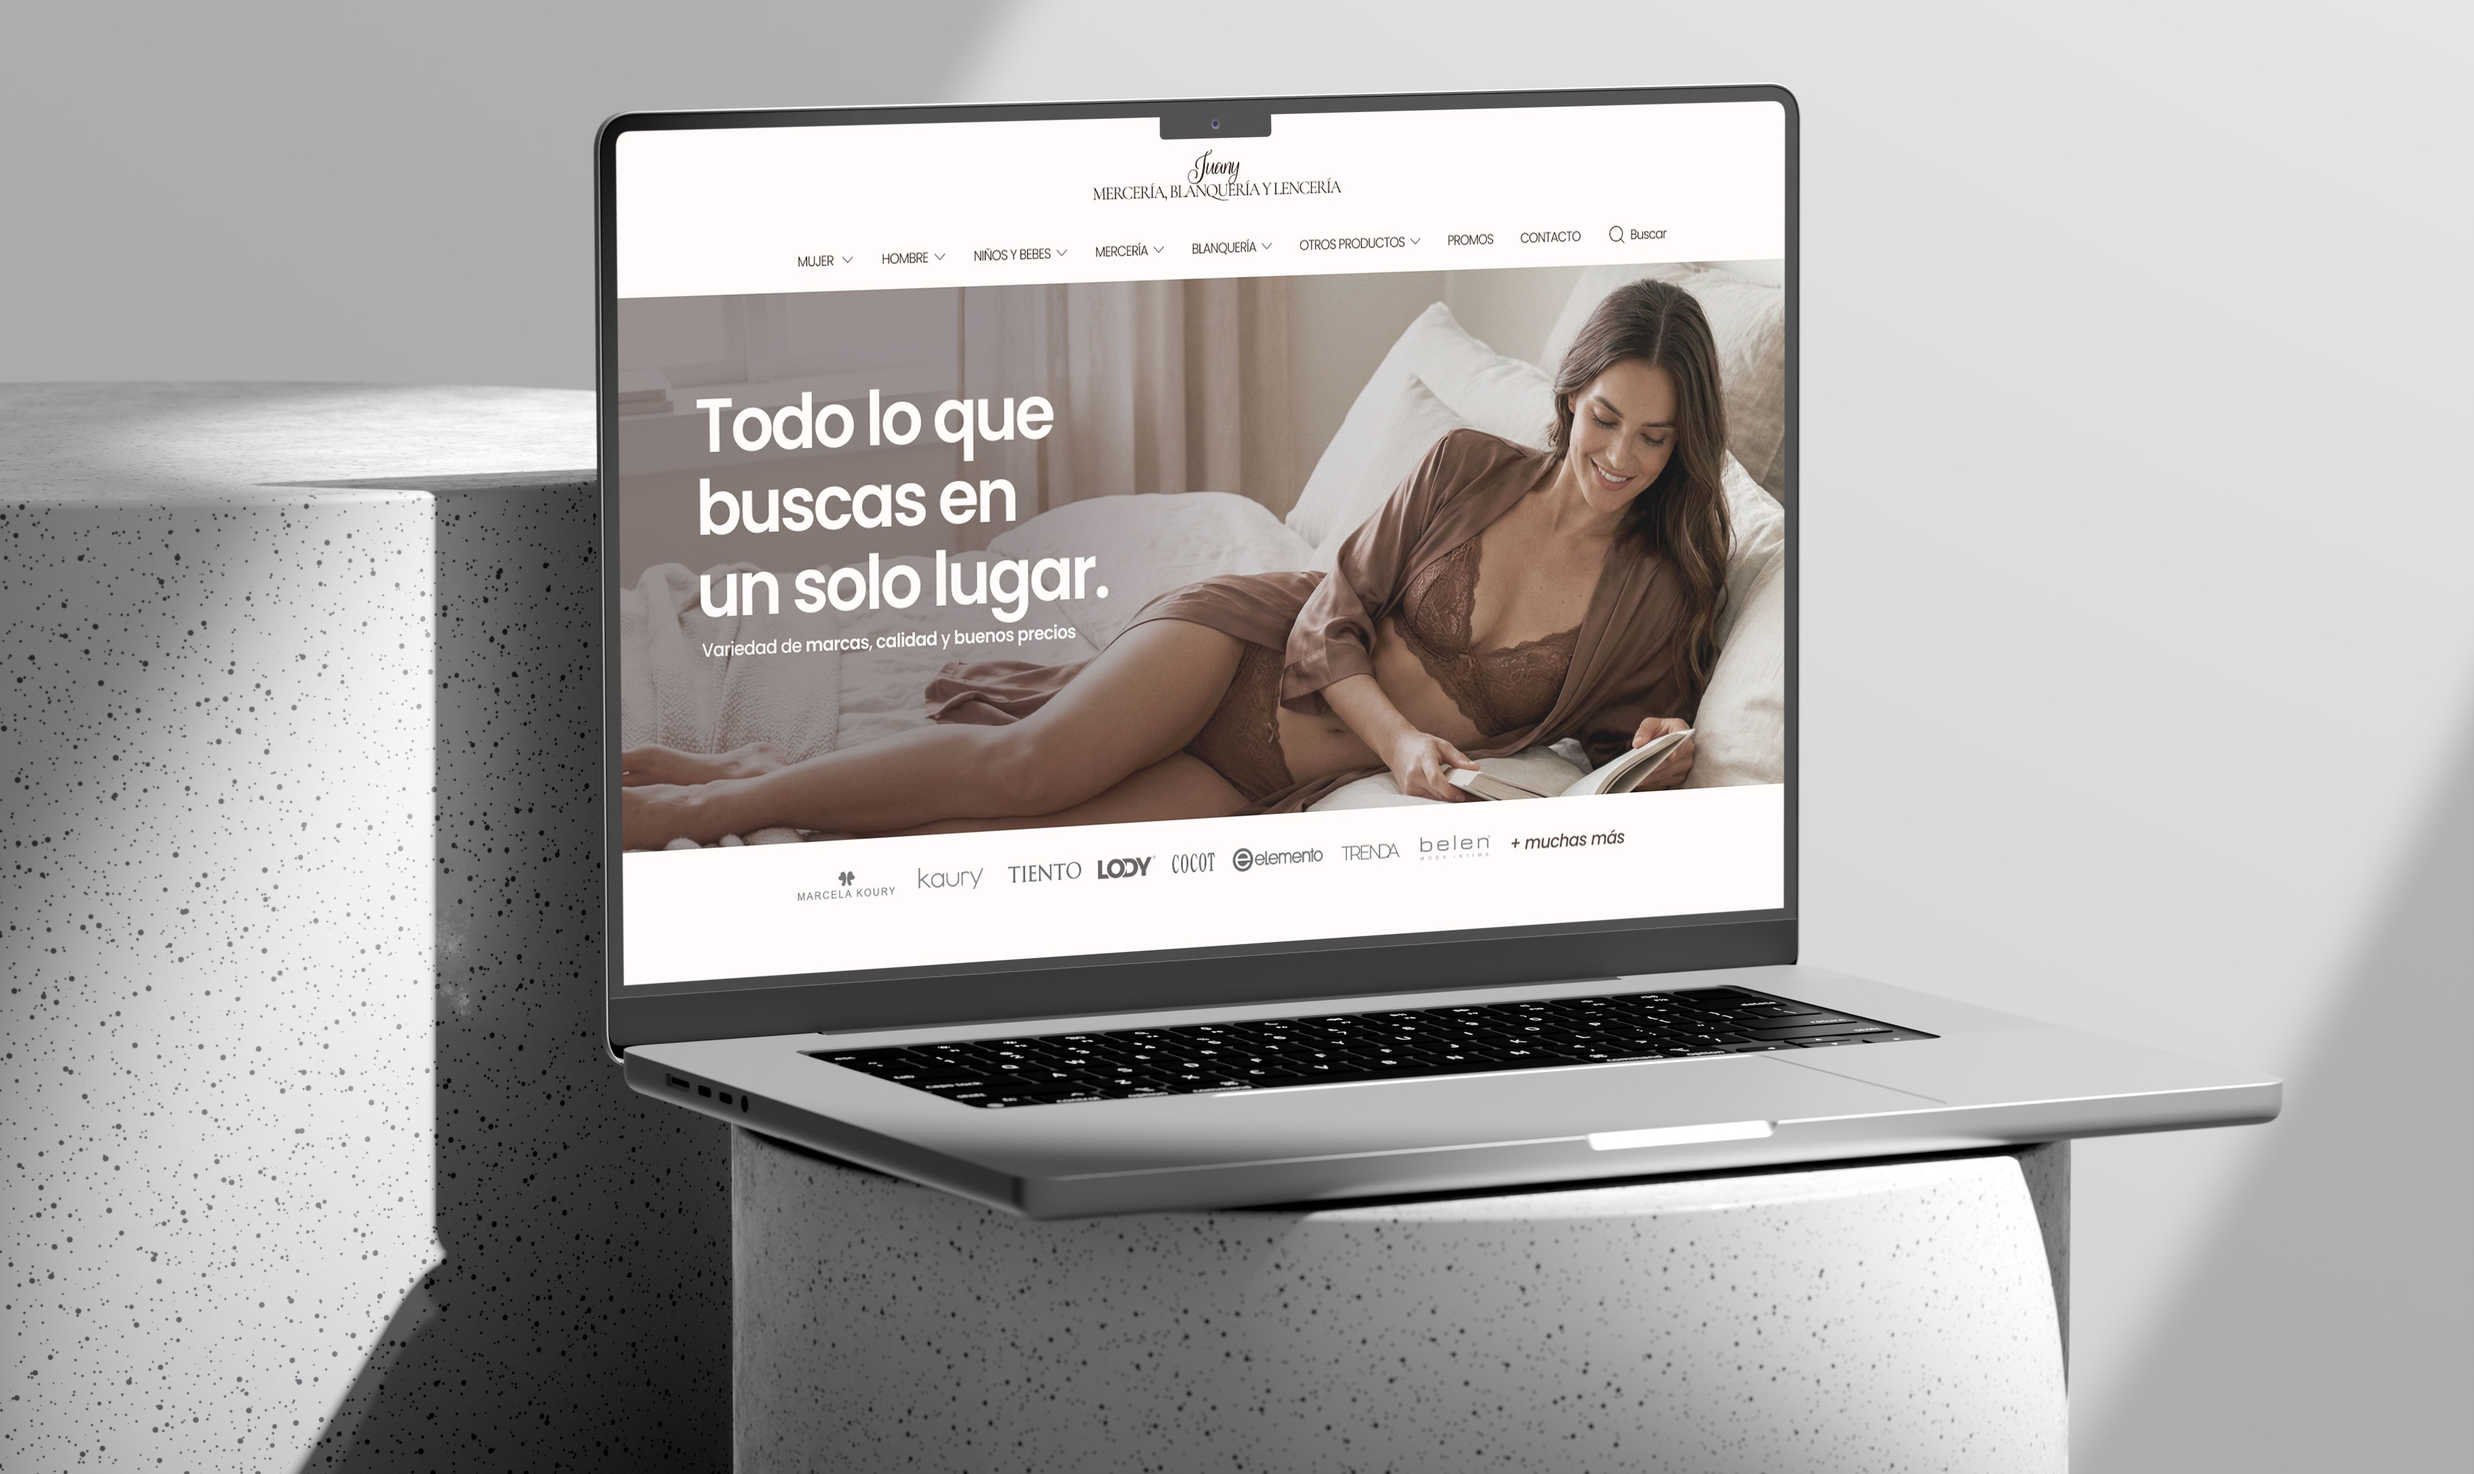
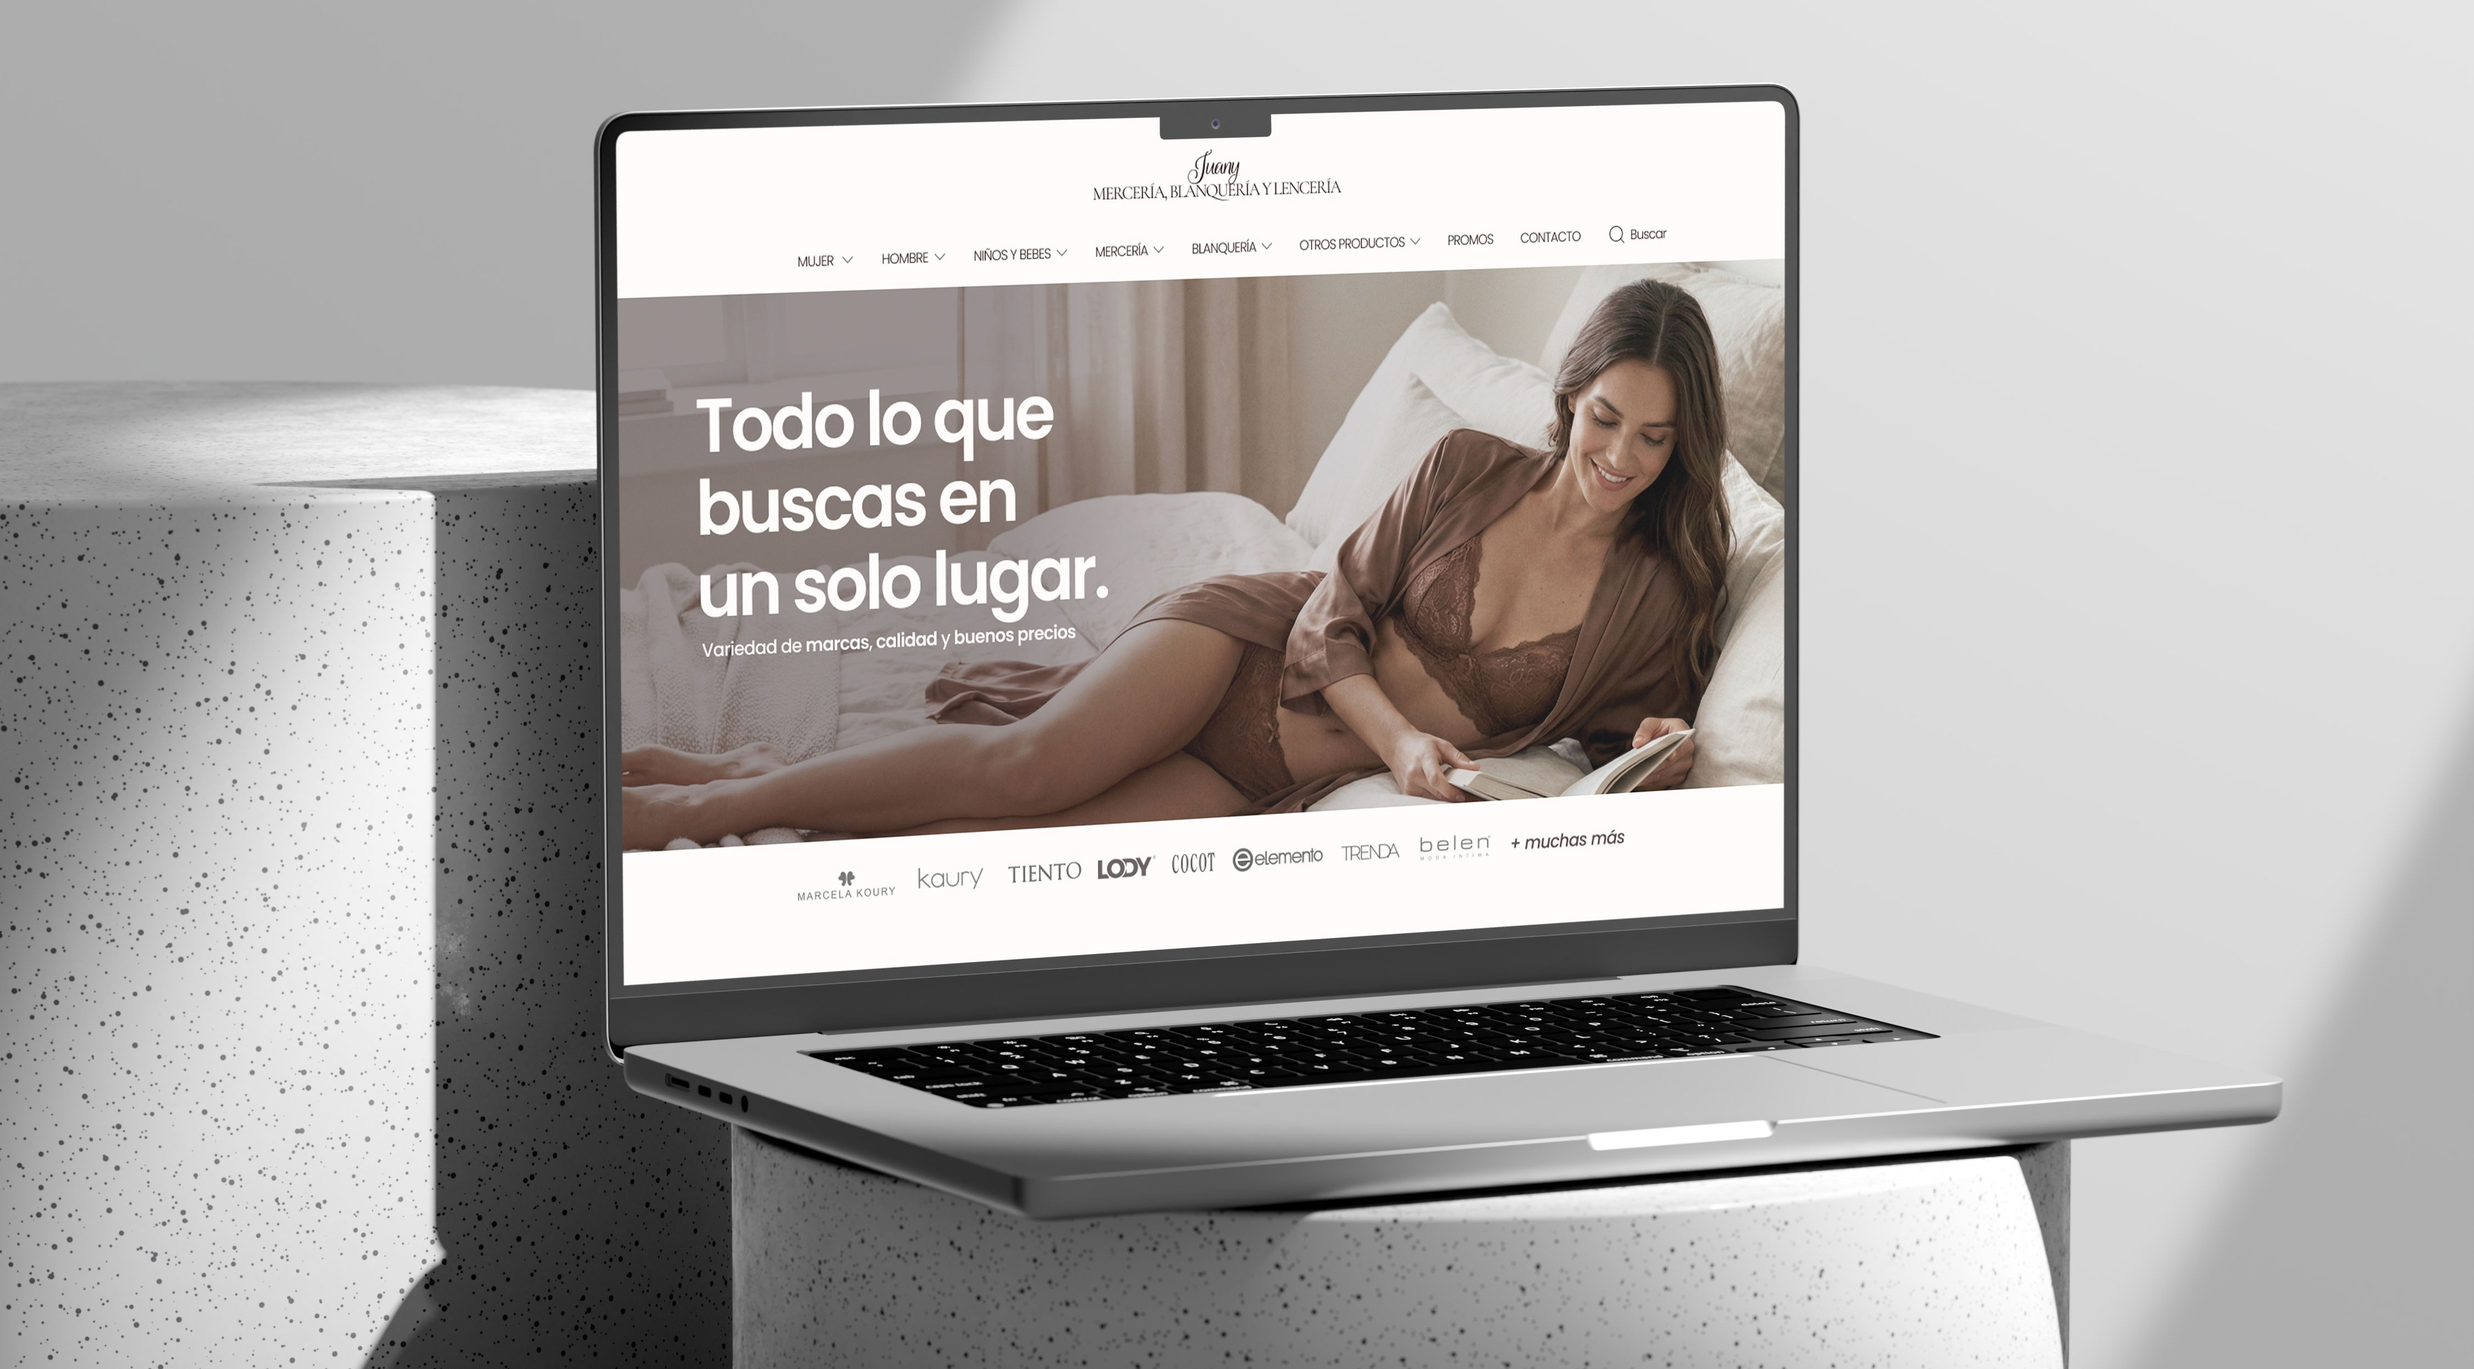
mejoras 17/3

diff --git a/components/MiHeader.jsx b/components/MiHeader.jsx
@@ -7,16 +7,16 @@ const container = {
   hidden: {},
   show: {
     transition: {
-      staggerChildren: 0.18
-    }
-  }
+      staggerChildren: 0.18,
+    },
+  },
 };
 
 const item = {
   hidden: {
     opacity: 0,
     y: 40,
-    filter: "blur(8px)"
+    filter: "blur(8px)",
   },
   show: {
     opacity: 1,
@@ -24,9 +24,9 @@ const item = {
     filter: "blur(0px)",
     transition: {
       duration: 0.7,
-      ease: [0.25, 0.1, 0.25, 1]
-    }
-  }
+      ease: [0.25, 0.1, 0.25, 1],
+    },
+  },
 };
 
 export default function MiHeader() {
@@ -56,22 +56,18 @@ export default function MiHeader() {
   }, []);
 
   return (
-    <div className="relative w-full h-[40vh] md:h-[60vh] [--base-vh:60vh] md:[--base-vh:60vh]">
-      
+    <div className="relative w-full h-[40vh] md:h-[75vh] [--base-vh:70vh] md:[--base-vh:70vh]">
       <header
         className="fixed top-0 left-0 w-full overflow-hidden flex items-center justify-center -z-10"
         style={{
-          height: `calc(var(--base-vh) * ${headerHeight / 100})`
+          height: `calc(var(--base-vh) * ${headerHeight / 100})`,
         }}
       >
-        
-          
-       {/* <div className="absolute inset-0 z-0">
+        {/* <div className="absolute inset-0 z-0">
           <ShaderGradientComponent />
         </div>*/}
 
-        <div className="absolute inset-0 flex flex-col justify-end items-start z-10 pointer-events-none p-6 md:p-20 md:pt-50 text-left">
-          
+        <div className="absolute inset-0 flex flex-col justify-end items-start z-10 pointer-events-none md:px-20 md:py-10 text-left ">
           <motion.div
             variants={container}
             initial="hidden"
@@ -79,10 +75,9 @@ export default function MiHeader() {
             className="flex flex-col items-start"
             style={{
               transform: `translateY(${textY}px) scale(${textScale})`,
-              transformOrigin: "center"
+              transformOrigin: "center",
             }}
           >
-
             {/* línea 1 */}
             <motion.div
               variants={item}
@@ -92,7 +87,7 @@ export default function MiHeader() {
                 ¡Hola! Soy Luciana —
               </span>
 
-              <span className="inline-flex items-center text-xl md:text-6xl gap-2">
+              <span className="inline-flex items-center text-xl md:text-[80px] gap-2">
                 <i>diseñadora multimedial</i>
 
                 <motion.div
@@ -107,16 +102,17 @@ export default function MiHeader() {
             {/* línea 2 */}
             <motion.span
               variants={item}
-              className="font-sans text-white/90 font-semibold text-xl md:text-6xl leading-tight"
+              className="font-sans text-white/90 font-semibold text-xl md:text-[80px] leading-tight"
             >
-              enfocada en crear <i>productos digitales</i> <br /> con 
-              grandes propositos
+              enfocada en crear <i>productos <br /> digitales</i>  con grandes
+              propositos
             </motion.span>
-
           </motion.div>
-
+           
         </div>
+       
       </header>
+      <div className="absolute bottom-0 w-[90%] left-1/2 -translate-x-1/2 border-t border-gray-800 z-20"></div>
     </div>
   );
 }

diff --git a/App.jsx b/App.jsx
@@ -15,10 +15,10 @@ import ParrallaxSection from "./components/ParrallaxSection";
 import MiHeader from "./components/MiHeader";
 import SectionWrapper from "./components/SectionWrapper";
 
-import fotoProyecto1 from "./assets/Mask group.png";
-import fotoProyecto2 from "./assets/Mask group2.png";
-import fotoProyecto3 from "./assets/Mask group3.png";
-import fotoProyecto4 from "./assets/iPad Mockup.png";
+import fotoProyecto1 from "./assets/01 Free Macbook Pro Mockup On Round Podium copia.jpg";
+import fotoProyecto2 from "./assets/Hand Holding A3 Poster Mockup copia.jpg";
+import fotoProyecto3 from "./assets/Mockup copia.jpg";
+import fotoProyecto4 from "./assets/iPad Mockup 1.png";
 
 function App() {
   return (
@@ -31,7 +31,7 @@ function App() {
         <Route
           path="/"
           element={
-            <main className="flex flex-col gap-30">
+            <main className="flex flex-col gap-10">
               <header>
                 <MiHeader />
               </header>
@@ -41,11 +41,11 @@ function App() {
                   <ContainerImages
                     titulo={
                       <>
-                        Trabajos <br /> <i>destacados</i>
+                        Proyectos <br /> <i>destacados</i>
                       </>
                     }
                   >
-                    <Scroll delay={0.4}>
+                    <Scroll delay={0.6}>
                       <CardProjects
                         imagen={fotoProyecto1}
                         descripcion="Catálogo Web"
@@ -55,7 +55,7 @@ function App() {
                         link="/catalogo-web"
                       />
                     </Scroll>
-                      <Scroll delay={0.6}>
+                      <Scroll delay={0.4}>
                       <CardProjects
                         imagen={fotoProyecto4}
                         descripcion="Calendario Fórmula 1"
@@ -64,7 +64,7 @@ function App() {
                         etiqueta2="DESARROLLO FRONTEND"
                       />
                     </Scroll>
-                    <Scroll delay={0.4}>
+                    <Scroll delay={0.6}>
                       <CardProjects
                         imagen={fotoProyecto2}
                         descripcion="Posters Fórmula 1"
@@ -75,7 +75,7 @@ function App() {
                         }
                       />
                     </Scroll>
-                   <Scroll delay={0.6}>
+                   <Scroll delay={0.4}>
                       <CardProjects
                         imagen={fotoProyecto3}
                         descripcion="Rediseño Menú Gastronómico"

diff --git a/components/CardProjects.jsx b/components/CardProjects.jsx
@@ -1,25 +1,34 @@
 import { Link } from "react-router-dom";
 
-function CardProjects({ imagen, descripcion, año, etiqueta1, etiqueta2, link }) {
+function CardProjects({
+  imagen,
+  descripcion,
+  año,
+  etiqueta1,
+  etiqueta2,
+  link,
+}) {
   const isExternal =
     link && (link.startsWith("http://") || link.startsWith("https://"));
 
   const cardContent = (
-    <div className="flex flex-col w-full h-full gap-4 group md:hover:bg-white/5 transition-colors duration-300 rounded-xl md:pt-2 md:px-2 md:pb-5">
-      <div className="overflow-hidden rounded-xl">
+    <div className="flex flex-col w-full h-180 gap-4 group md:hover:bg-white/5 transition-colors duration-300 rounded-xl md:pt-2 md:px-2 md:pb-5">
+      <div className="flex justify-center items-center overflow-hidden rounded-xl">
         <img
           src={imagen}
           alt={descripcion}
-          className="w-full h-full object-cover transition-all duration-500 ease-in-out hover:scale-[1.03]"
+          className="w-full h-180 object-cover transition-all duration-300 ease-in-out hover:scale-[1.07]"
         />
       </div>
 
       <div className="flex flex-col gap-2 px-2">
         <div className="flex flex-wrap justify-between items-center">
-          <p className="text-md font-semibold pt-3 md:text-xl uppercase">{descripcion}</p>
+          <p className="text-md font-medium pt-3 md:text-xl uppercase">
+            {descripcion}
+          </p>
           <span className="text-md text-gray-300">{año}</span>
         </div>
-        
+
         <div className="flex flex-wrap gap-2 mt-3">
           <span className="border border-white/30 px-3 py-1 text-xs rounded-full text-gray-300">
             {etiqueta1}

diff --git a/components/ContainerImages.jsx b/components/ContainerImages.jsx
@@ -16,7 +16,7 @@ function ContainerImages({
   return (
     <div>
       <SectionWrapper>
-        <div className="grid grid-cols-1 md:grid-cols-2  gap-y-15 items-start">
+        <div className="grid grid-cols-1 md:grid-cols-2 gap-y-3 items-start">
             <div className="md:grid-rows-1">
               <SectionTitle>{titulo}</SectionTitle>
             </div>

diff --git a/components/Scroll.jsx b/components/Scroll.jsx
@@ -6,7 +6,7 @@ const Scroll = ({ children, className = "", delay = 0 }) => {
       className={`w-full ${className}`}
       initial={{ opacity: 0, y: 50 }}
       whileInView={{ opacity: 1, y: 0 }}
-      viewport={{ once: true, margin: "-60px" }}
+      viewport={{ once: true, margin: "75px" }}
       transition={{
         duration: 0.7,
         delay: delay,

diff --git a/components/SectionTitle.jsx b/components/SectionTitle.jsx
@@ -4,7 +4,7 @@ import Scroll from "../components/Scroll";
 function SectionTitle({ children, subtitulo, className = "" }) {
   return (
     <div className="w-fit">
-       <Scroll delay={0.2}>
+       <Scroll delay={0.4}>
       <h2 className={`text-3xl md:text-5xl leading-none ${className}`}>
       {children}
     </h2>

diff --git a/index.css b/index.css
@@ -38,7 +38,7 @@ h2  {
 }
 
 h3 {
-  font-weight: 600;
+  font-weight: 500;
 }
 
 p {
